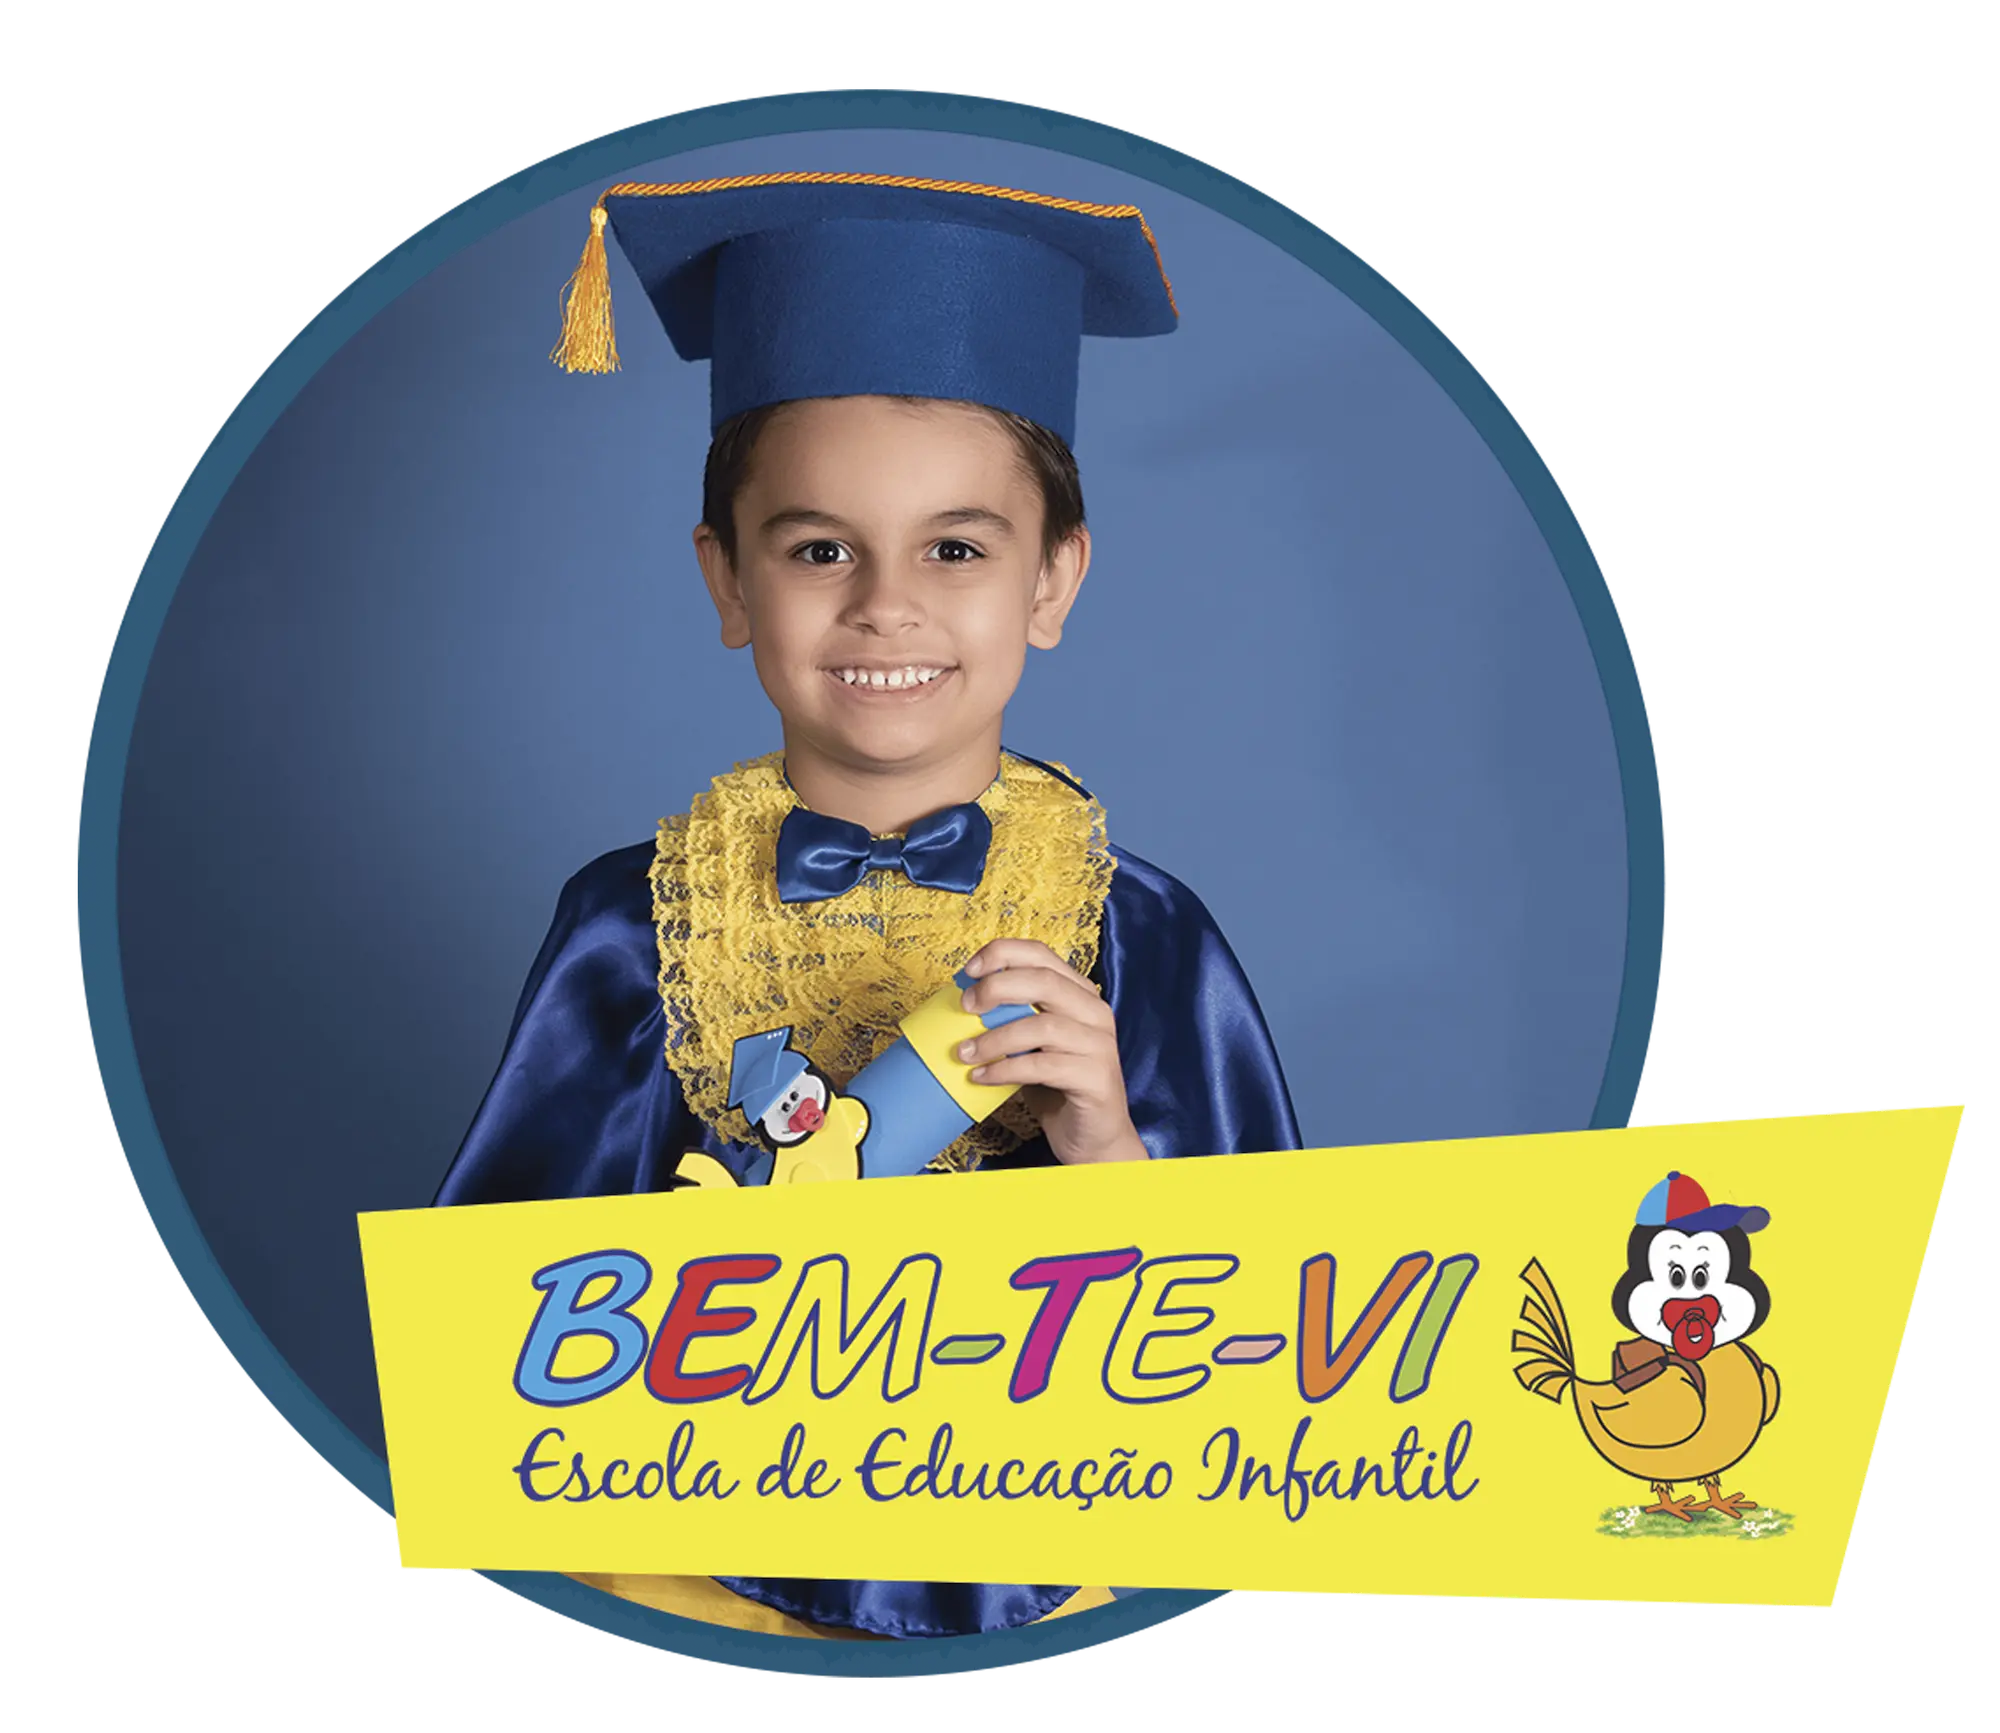
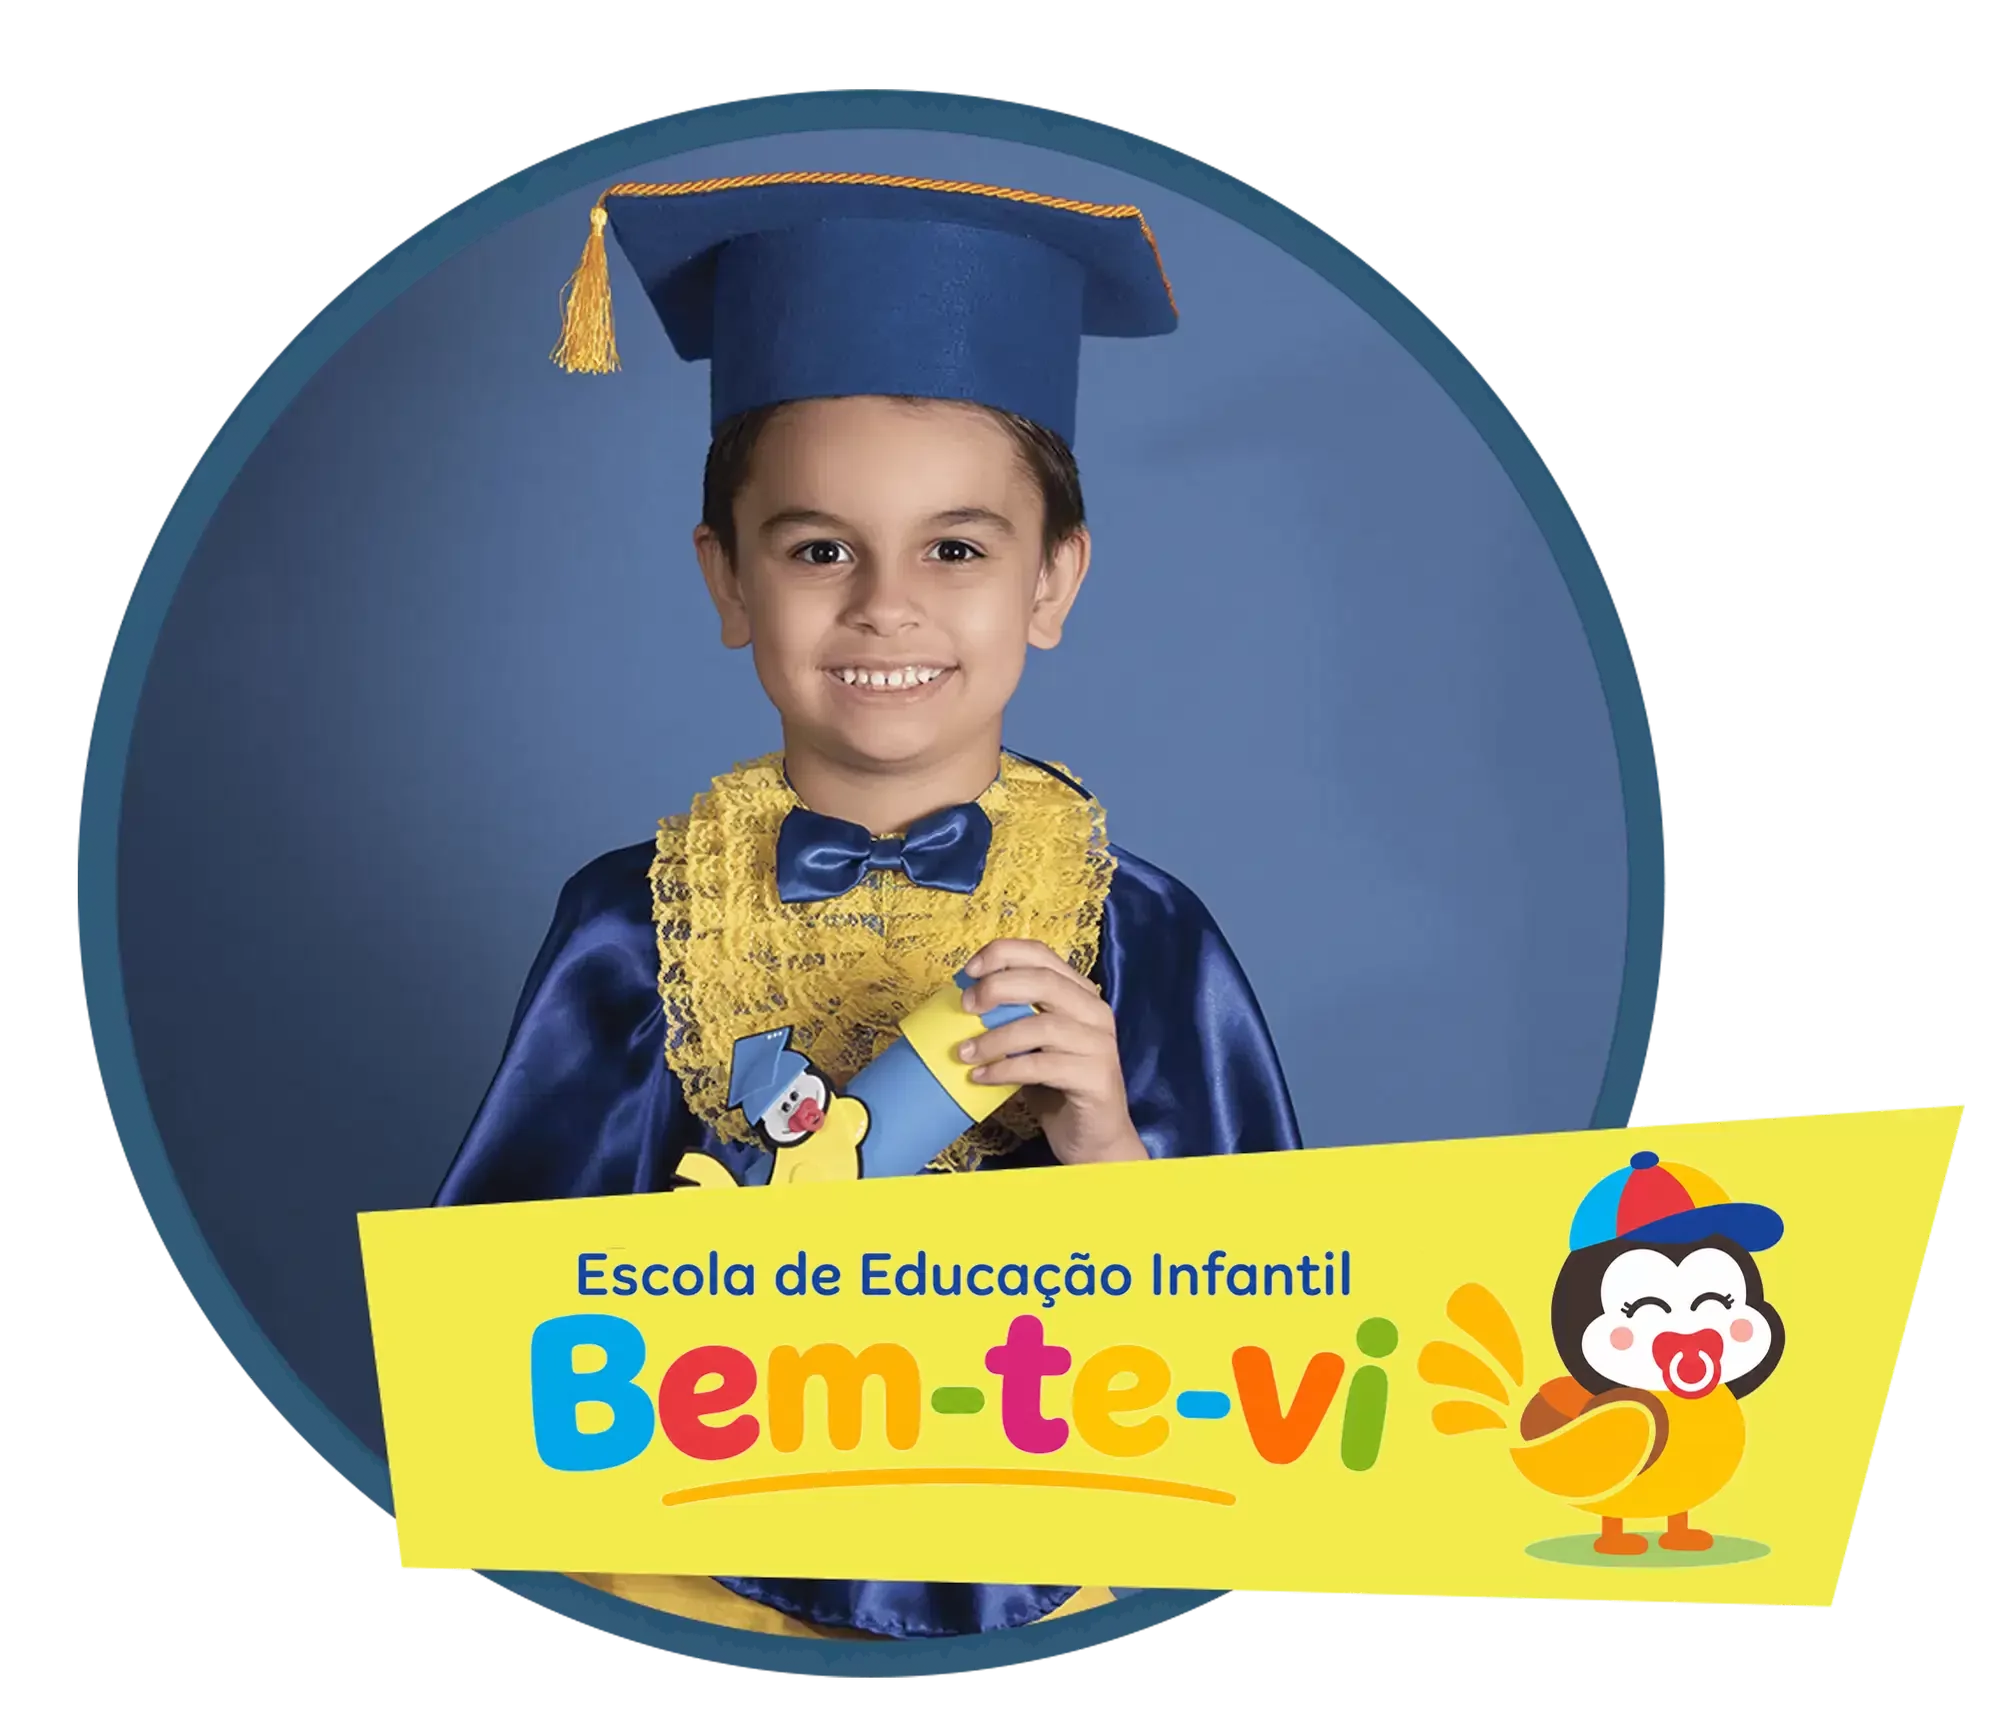
feat(brand): replace and optimize school identity images for 2027

Changed region(s): [[0.248, 0.6544, 0.899, 0.9036]]

diff --git a/src/app/layout.tsx b/src/app/layout.tsx
@@ -40,8 +40,8 @@ export const metadata: Metadata = {
     images: [
       {
         url: "/images/logo-nome.png",
-        width: 2178,
-        height: 667,
+        width: 1255,
+        height: 400,
         alt: "Logo Escola Infantil Bem-te-vi",
       },
     ],
